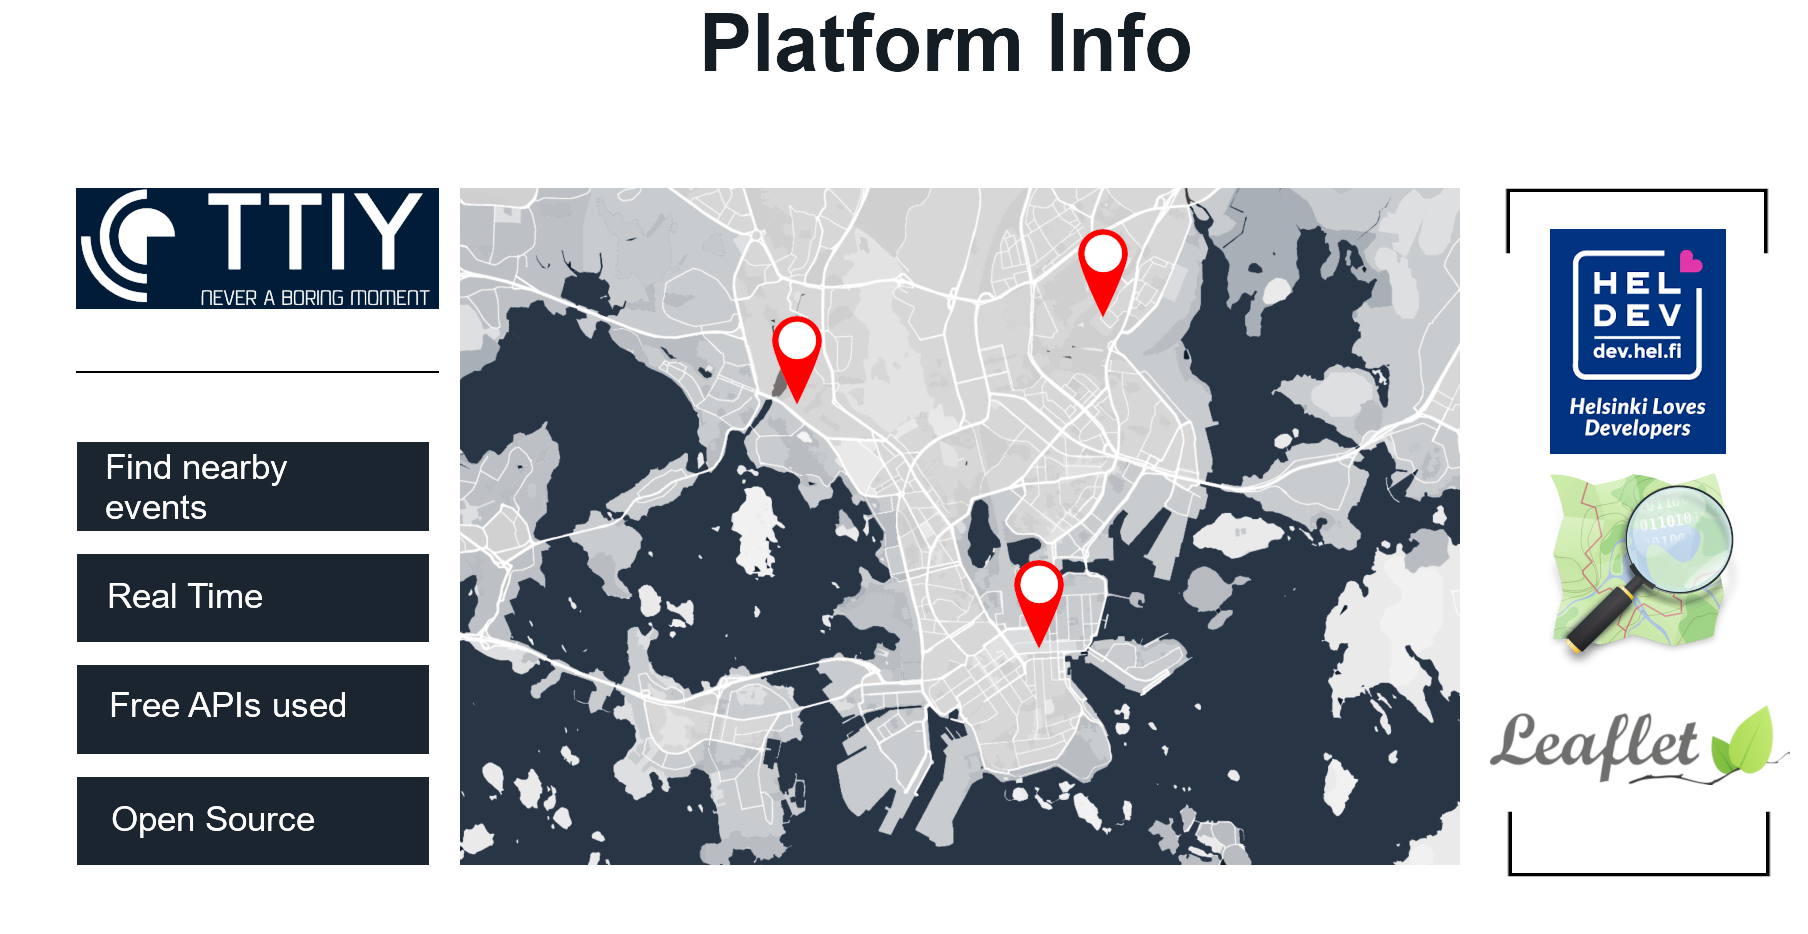
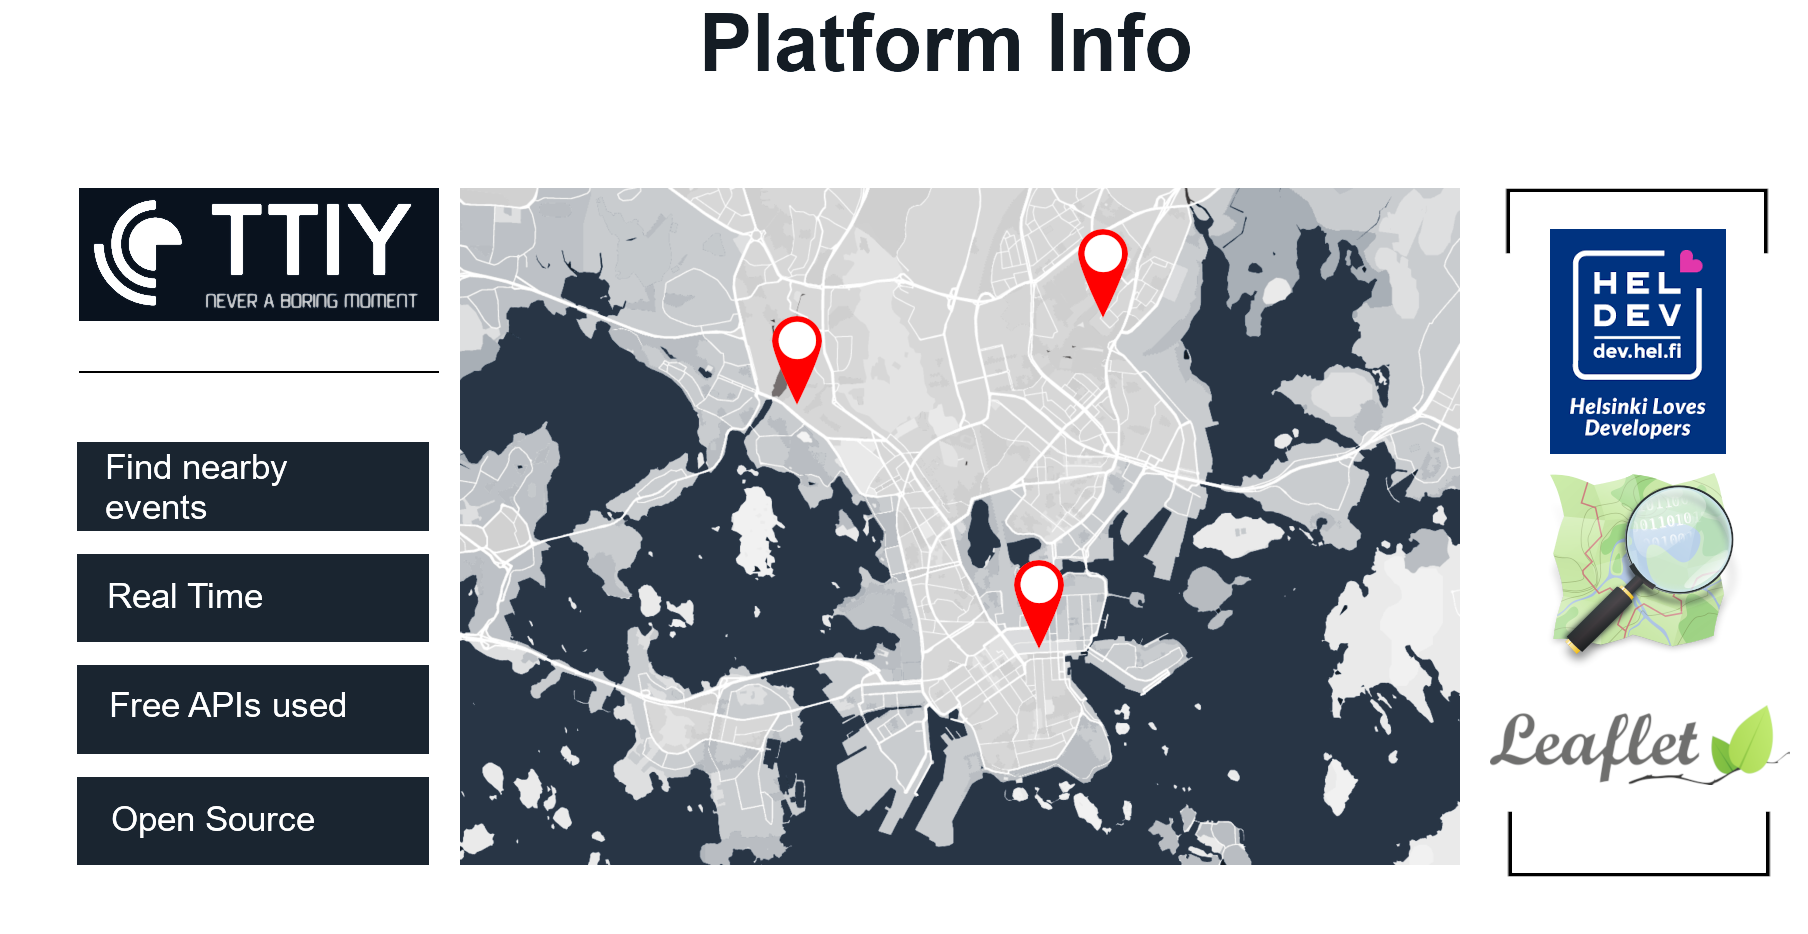
Info kuva + fontti

Changed region(s): [[0.031, 0.1863, 0.2478, 0.3415]]

diff --git a/index.html b/index.html
@@ -5,7 +5,7 @@
     <meta name="viewport" content="width=device-width">
     <title>Things That Interest You</title>
     <link href="https://fonts.googleapis.com/css?family=Libre+Franklin&amp;subset=latin-ext" rel="stylesheet">
-    <link href="https://fonts.googleapis.com/css?family=Libre+Franklin|Lobster&amp;subset=latin-ext" rel="stylesheet">
+    <link href="https://fonts.googleapis.com/css?family=Orbitron" rel="stylesheet">
     <link href="tyyli.css" rel="stylesheet">
     <link href="loading.css" rel="stylesheet">
 

diff --git a/tyyli.css b/tyyli.css
@@ -100,10 +100,10 @@ header h1 {
     padding: 0;
     width: auto;
     height: fit-content;
-    font-family: 'Lobster', cursive;
+    font-family: 'Orbitron', sans-serif;
     color: #ececec;
     margin: 0;
-    text-decoration: underline;
+
 }
 
 @keyframes shake {
